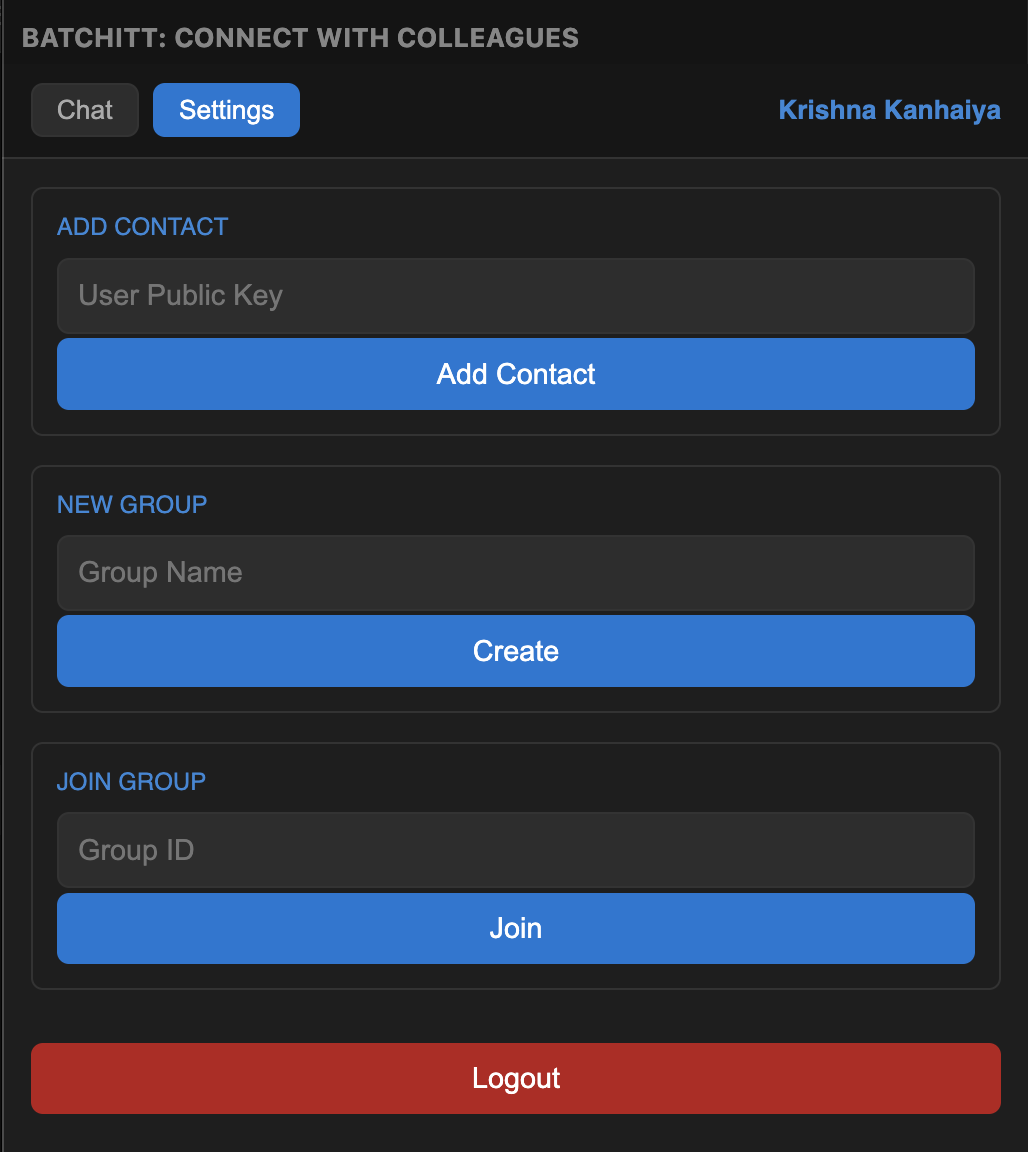
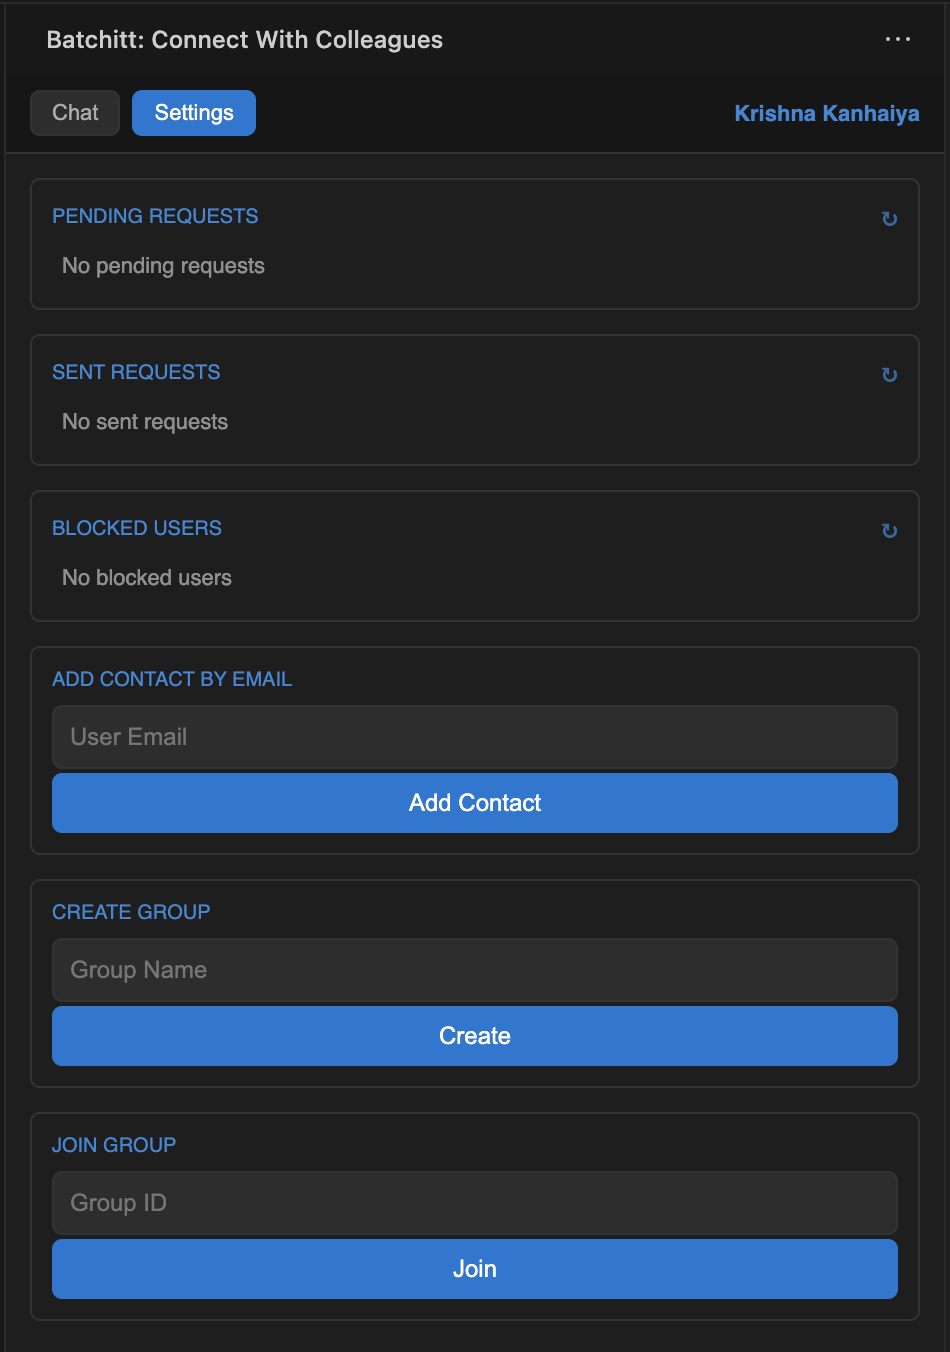
Change Log Out Position from Setting to View Action

diff --git a/README.md b/README.md
@@ -1,6 +1,6 @@
 # 🚀 Batchitt: Connect With Colleagues
 
-[![VS Code](https://img.shields.io/badge/Extension-VSCode-blueviolet.svg)](https://github.com/krishnaarga/batchitt)
+[![Code Editor](https://img.shields.io/badge/Extension-for%20Code%20Editor-blueviolet.svg)](https://github.com/krishnaarga/batchitt)
 [![Chat](https://img.shields.io/badge/Chat-on%20Batchitt-51bb9c)](https://github.com/krishnaarga/batchitt)
 [![License](https://img.shields.io/badge/License-MIT-%2300C853.svg)](https://github.com/krishnaarga/batchitt/blob/main/LICENSE)
 
@@ -8,9 +8,9 @@
 
 ## 📌 Overview
 
-**Batchitt** is a powerful VS Code extension that enables real-time communication between developers directly inside the editor.
+**Batchitt** is a real-time chat extension for developers that lets you communicate, share code, and collaborate instantly right inside your code editor.
 
-Chat one-to-one or in groups without leaving your coding environment 🚀
+Chat 1:1 or in groups without leaving your coding environment 🚀
 
 ---
 
@@ -20,9 +20,8 @@ Chat one-to-one or in groups without leaving your coding environment 🚀
 
 ## ✨ Features
 
-- 💬 One-to-one chat with colleagues
-- 👥 Group chat support
-- ⚡ Lightweight and fast integration inside VS Code
+- 💬 One-to-one and group chat features within the code editor
+- ⚡ Lightweight and fast integration inside code editor
 - 🔗 Seamless collaboration within your workspace
 - 🔐 Secure authentication using auth key
 - 👨💻 Developer-friendly UI
@@ -36,7 +35,7 @@ To use Batchitt, follow these steps:
 1. Visit 👉 https://batchitt.com  
 2. Login to your account  
 3. Copy your **Auth Key** from dashboard  
-4. Open VS Code  
+4. Open you code editor
 5. Paste the Auth Key inside the Batchitt extension  
 6. You will be logged in successfully ✅  
 
@@ -54,8 +53,8 @@ Source Code: https://github.com/krishnaarga/batchitt
 
 ## 🛠 Installation
 
-### From VS Code Marketplace
-1. Open VS Code
+### From VS Code / Cursor/ Antigravity Marketplace
+1. Open you code editor
 2. Go to Extensions (`Ctrl + Shift + X`)
 3. Search for **Batchitt**
 4. Click **Install**

diff --git a/CHANGELOG.md b/CHANGELOG.md
@@ -6,12 +6,34 @@ All notable changes to this project will be documented in this file.
 
 ---
 
-## [1.1.0] - Upcoming
+## [2.2.0] - Upcoming
 
 ### 🚀 Planned
 - Real-time notifications
 - Improved UI/UX
 - Performance optimization
+
+---
+
+## [2.1.0] - 2026-04-22
+
+### 🚀 Changed
+- Change Log Out Position from Setting to View Action
+- Performance optimization
+
+---
+
+## [2.0.0] - 2026-04-15
+
+### ✨ Added
+- Added user search and send request
+- Display Pending Requests Users
+- Added Accept and Block buttons for pending requests
+- Display Sent Requests Users
+- Display Blocked Users List
+- Display profile picture
+- Added reload button for all lists
+- Improved UI/UX
 
 ---
 
@@ -44,11 +66,9 @@ All notable changes to this project will be documented in this file.
 
 ### ✨ Added
 - Initial release of Batchitt
-- One-to-one chat functionality inside VS Code
-- Group chat support
+- One-to-one and group chat features within the code editor.
 - Authentication via Auth Key
 - Integration with https://batchitt.com for login
-- Basic chat UI inside VS Code panel
 
 ---
 
